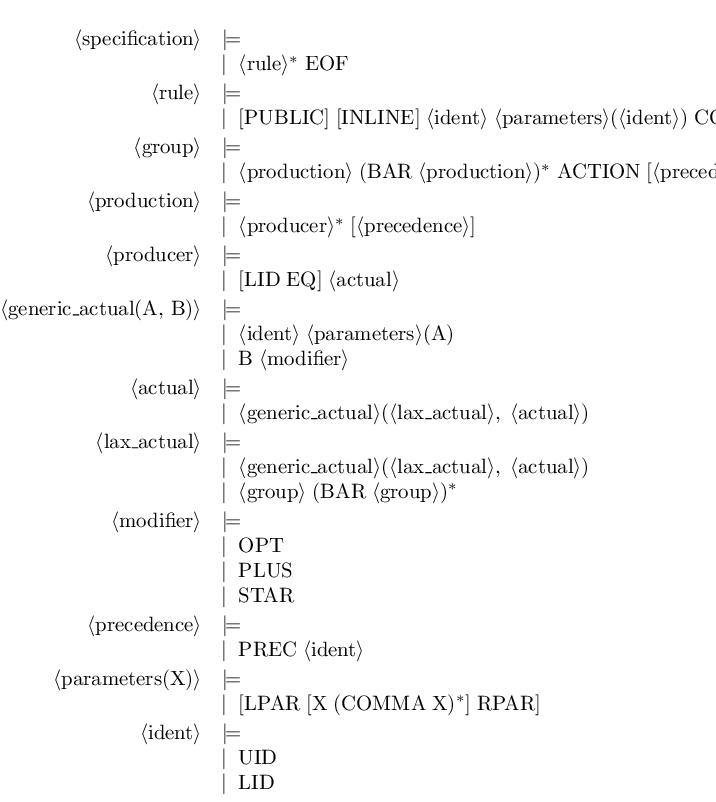
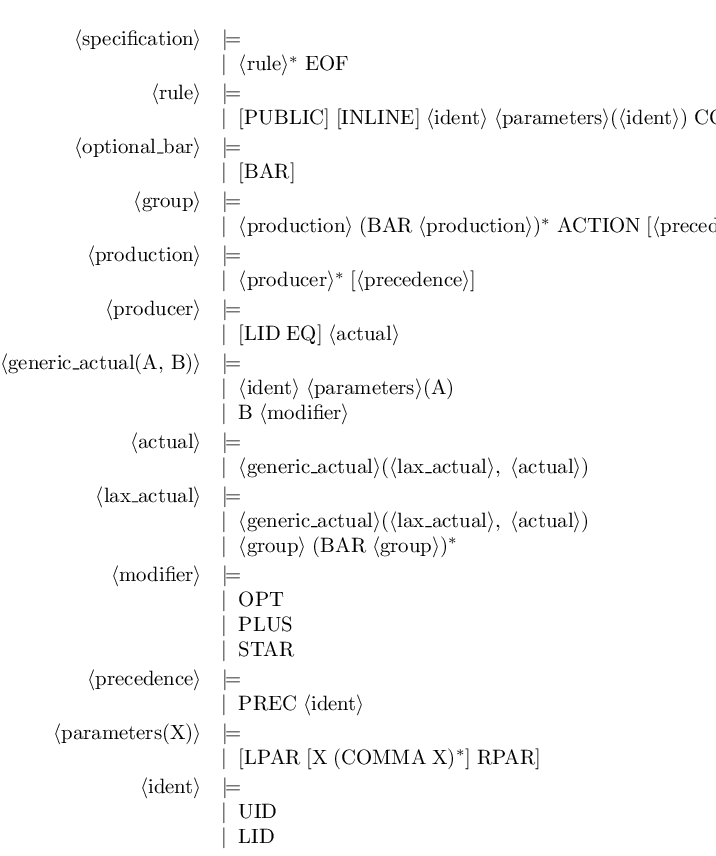
inline flag

diff --git a/README.md b/README.md
@@ -38,7 +38,7 @@ By default **MenhirBrav** defaults to standard output, use `-o <file>` to specif
 - lists and non-empty lists
 - separated lists and non-empty separated lists
 
-Once recognized, the rules are deleted and their instances are replaced with default constructions (eg. *\_\**, *\_+*, *[\_]*).
+Once recognized, if the `-i` switch is specified the rules are deleted and their instances are replaced with default constructions (eg. *\_\**, *\_+*, *[\_]*). Without the `-i` flag, only the productions of the recognized rules are replaced, the total amount of rules remaining the same.
 
 For example, on these simple rules (from this [file](doc/reco.mly)):
 ```
@@ -71,6 +71,30 @@ my_rule(E,F,S1,S2):
 ```
 **MenhirBrav** outputs:
 ```
+my_option(X, Y) ::=
+  | [Y X]
+
+my_list(A) ::=
+  | A*
+
+my_nonempty_list(C) ::=
+  | C+
+
+my_separated_nonempty_list(X, Y) ::=
+  | X (Y X)*
+
+my_separated_list(X, S) ::=
+  | [X (S X)*]
+
+my_rule(E, F, S1, S2) ::=
+  | my_option(E, F)
+  | my_list(E)
+  | my_nonempty_list(F)
+  | my_separated_nonempty_list(E, S1)
+  | my_separated_list(F, S2)
+```
+And with the `-i` switch:
+```
 my_rule(E, F, S1, S2) ::=
   | [F E]
   | E*
@@ -100,7 +124,10 @@ Here are the different formats output obtained by **MenhirBrav** from its own [p
   | <rule>* EOF
 
 <rule> ::=
-  | [PUBLIC] [INLINE] <ident> parameters(<ident>) COLON [BAR] <group> (BAR <group>)*
+  | [PUBLIC] [INLINE] <ident> parameters(<ident>) COLON <optional_bar> <group> (BAR <group>)*
+
+<optional_bar> ::=
+  | [BAR]
 
 <group> ::=
   | <production> (BAR <production>)* ACTION [<precedence>]
